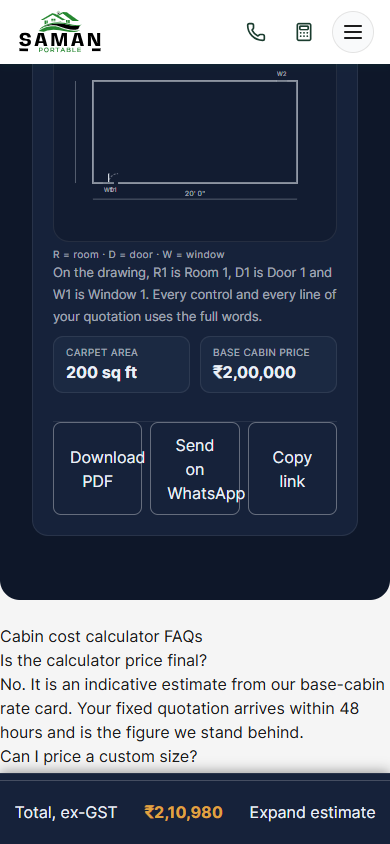
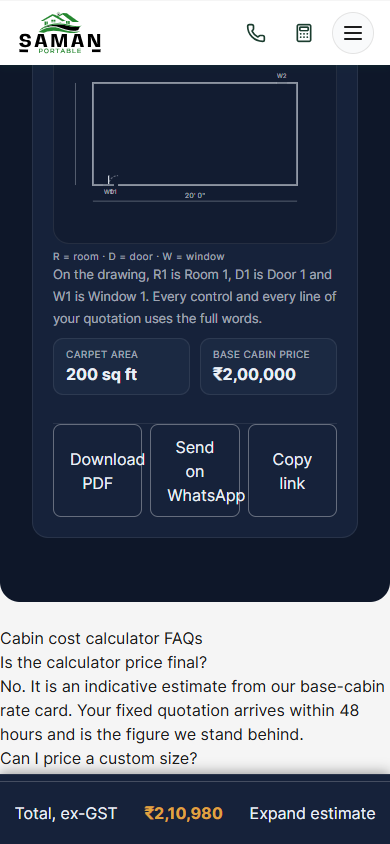
CALC-L7: 44x44 hit area at no layout cost, and the route classifier
RULED 09 Aug: 40x40 matching the sibling is the standard for a header icon; the
44px figure was written for the wizard's steppers. The declared exception is
CLOSED, and the gate no longer prints a shortfall.

The free improvement was available. Both icon links - call and calculator, all
four instances - carry an absolutely positioned ::after at -inset-0.5. Absolute
positioning is out of flow, so it extends the hit area without participating in
layout:

  visual box   40x40, matching the call icon exactly, at 1440, 1920 and 390
  hit area     44x44 via ::after (position absolute), same three viewports

The visual box measures 40x40 both before and after the change, and an
out-of-flow pseudo-element cannot move a sibling by construction. I did not
capture a full before/after layout diff, so that is the claim being made rather
than a wider one.

THE ROUTE CLASSIFIER, encoded so the decision is mechanical rather than asked.
Applied PER ROUTE, because a cluster holds both kinds:

  prefill      enclosed structure the wizard can configure   57 routes
  no-prefill   material sold by area or length               17 routes
  stopped      the rule does not separate it                  1 route

  /product/puf-panel/puf-panel-house - names both a structure and a material.
  Stopped INDIVIDUALLY, not by stopping the batch, exactly as ruled.

G29 amended: 15 clusters LISTED, counted on disk rather than inherited from a
document. The floor of 12 fully covered is unchanged.
[…]

diff --git a/src/components/Header.tsx b/src/components/Header.tsx
@@ -391,7 +391,7 @@ const Header = () => {
             <a
               href="tel:+918861622859"
               aria-label="Call SAMAN Portable, Bengaluru"
-              className="flex h-10 w-10 items-center justify-center rounded-full border border-[color-mix(in_srgb,var(--ds-color-forest)_20%,transparent)] text-[var(--ds-color-forest)] transition-colors hover:bg-[var(--ds-color-mist)]"
+              className="relative after:absolute after:-inset-0.5 after:content-[''] flex h-10 w-10 items-center justify-center rounded-full border border-[color-mix(in_srgb,var(--ds-color-forest)_20%,transparent)] text-[var(--ds-color-forest)] transition-colors hover:bg-[var(--ds-color-mist)]"
             >
               <Phone className="h-5 w-5" />
             </a>
@@ -399,7 +399,7 @@ const Header = () => {
             <a
               href={PRICE_CALCULATOR_ROUTE}
               aria-label={PRICE_CALCULATOR_H1}
-              className="flex h-10 w-10 items-center justify-center rounded-full border border-[color-mix(in_srgb,var(--ds-color-forest)_20%,transparent)] text-[var(--ds-color-forest)] transition-colors hover:bg-[var(--ds-color-mist)] focus-visible:outline focus-visible:outline-2 focus-visible:outline-offset-2 focus-visible:outline-[var(--ds-color-forest)]"
+              className="relative after:absolute after:-inset-0.5 after:content-[''] flex h-10 w-10 items-center justify-center rounded-full border border-[color-mix(in_srgb,var(--ds-color-forest)_20%,transparent)] text-[var(--ds-color-forest)] transition-colors hover:bg-[var(--ds-color-mist)] focus-visible:outline focus-visible:outline-2 focus-visible:outline-offset-2 focus-visible:outline-[var(--ds-color-forest)]"
             >
               <CalculatorIcon className="h-5 w-5" />
             </a>
@@ -453,7 +453,7 @@ const Header = () => {
             <a
               href="tel:+918861622859"
               aria-label="Call SAMAN Portable, Bengaluru"
-              className="flex h-10 w-10 items-center justify-center rounded-full text-[var(--ds-color-forest)]"
+              className="relative after:absolute after:-inset-0.5 after:content-[''] flex h-10 w-10 items-center justify-center rounded-full text-[var(--ds-color-forest)]"
             >
               <Phone className="h-5 w-5" />
             </a>
@@ -461,7 +461,7 @@ const Header = () => {
             <a
               href={PRICE_CALCULATOR_ROUTE}
               aria-label={PRICE_CALCULATOR_H1}
-              className="flex h-10 w-10 items-center justify-center rounded-full text-[var(--ds-color-forest)] focus-visible:outline focus-visible:outline-2 focus-visible:outline-offset-2 focus-visible:outline-[var(--ds-color-forest)]"
+              className="relative after:absolute after:-inset-0.5 after:content-[''] flex h-10 w-10 items-center justify-center rounded-full text-[var(--ds-color-forest)] focus-visible:outline focus-visible:outline-2 focus-visible:outline-offset-2 focus-visible:outline-[var(--ds-color-forest)]"
             >
               <CalculatorIcon className="h-5 w-5" />
             </a>
